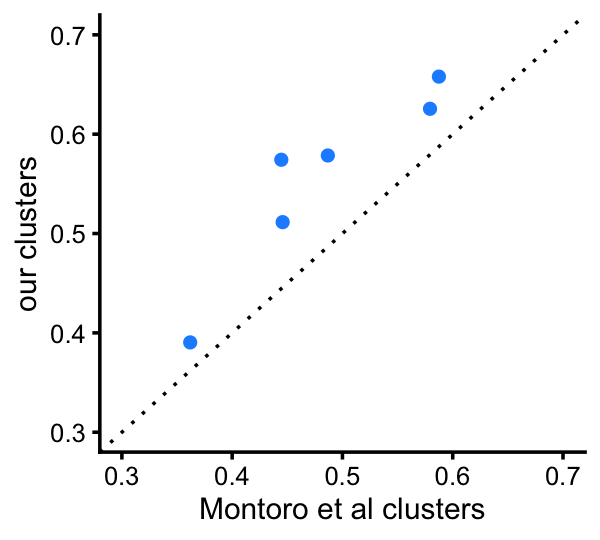
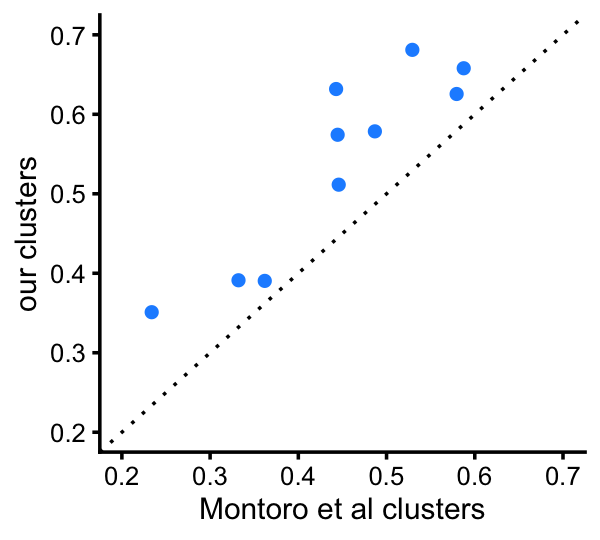
Added T+N cluster to totalvardist plots in clusters_droplet analysis.

diff --git a/docs/clusters_droplet.html b/docs/clusters_droplet.html
@@ -414,16 +414,16 @@ This reproducible <a href="http://rmarkdown.rstudio.com">R Markdown</a> analysis
 <div class="panel panel-default">
 <div class="panel-heading">
 <p class="panel-title">
-<a data-toggle="collapse" data-parent="#workflowr-checks" href="#strongRepositoryversionstrongahrefhttpsgithubcomstephenslabsinglecelltopicstreec69aa03bb5f52ad25e127209eb3dc0643951a179targetblankc69aa03a"> <span class="glyphicon glyphicon-ok text-success" aria-hidden="true"></span> <strong>Repository version:</strong> <a href="https://github.com/stephenslab/single-cell-topics/tree/c69aa03bb5f52ad25e127209eb3dc0643951a179" target="_blank">c69aa03</a> </a>
+<a data-toggle="collapse" data-parent="#workflowr-checks" href="#strongRepositoryversionstrongahrefhttpsgithubcomstephenslabsinglecelltopicstree87d00d08330c16f4a8de4faa5932c2b318d4bdcetargetblank87d00d0a"> <span class="glyphicon glyphicon-ok text-success" aria-hidden="true"></span> <strong>Repository version:</strong> <a href="https://github.com/stephenslab/single-cell-topics/tree/87d00d08330c16f4a8de4faa5932c2b318d4bdce" target="_blank">87d00d0</a> </a>
 </p>
 </div>
[2 lines of base64/hex data omitted]
 <div class="panel-body">
 <p>
 Great! You are using Git for version control. Tracking code development and connecting the code version to the results is critical for reproducibility.
 </p>
 <p>
-The results in this page were generated with repository version <a href="https://github.com/stephenslab/single-cell-topics/tree/c69aa03bb5f52ad25e127209eb3dc0643951a179" target="_blank">c69aa03</a>. See the <em>Past versions</em> tab to see a history of the changes made to the R Markdown and HTML files.
+The results in this page were generated with repository version <a href="https://github.com/stephenslab/single-cell-topics/tree/87d00d08330c16f4a8de4faa5932c2b318d4bdce" target="_blank">87d00d0</a>. See the <em>Past versions</em> tab to see a history of the changes made to the R Markdown and HTML files.
 </p>
 <p>
 Note that you need to be careful to ensure that all relevant files for the analysis have been committed to Git prior to generating the results (you can use <code>wflow_publish</code> or <code>wflow_git_commit</code>). workflowr only checks the R Markdown file, but you know if there are other scripts or data files that it depends on. Below is the status of the Git repository when the results were generated:
@@ -445,12 +445,9 @@ Ignored files:
     Ignored:    output/pulseseq/fits-pulseseq.RData
     Ignored:    output/pulseseq/rds/
 
-Untracked files:
-    Untracked:  analysis/clustering-droplet.rds
-
 Unstaged changes:
+    Modified:   analysis/clusters_pulseseq.Rmd
     Modified:   analysis/plots_tracheal_epithelium.Rmd
-    Modified:   code/plots.R
 
 </code></pre>
 <p>
@@ -489,6 +486,40 @@ Message
 </tr>
 </thead>
 <tbody>
+<tr>
+<td>
+Rmd
+</td>
+<td>
+<a href="https://github.com/stephenslab/single-cell-topics/blob/87d00d08330c16f4a8de4faa5932c2b318d4bdce/analysis/clusters_droplet.Rmd" target="_blank">87d00d0</a>
+</td>
+<td>
+Peter Carbonetto
+</td>
+<td>
+2020-10-11
+</td>
+<td>
+workflowr::wflow_publish(“clusters_droplet.Rmd”)
+</td>
+</tr>
+<tr>
+<td>
+html
+</td>
+<td>
+<a href="https://rawcdn.githack.com/stephenslab/single-cell-topics/b6374a110a3a839698ea093c6ea08c6330d9cda1/docs/clusters_droplet.html" target="_blank">b6374a1</a>
+</td>
+<td>
+Peter Carbonetto
+</td>
+<td>
+2020-10-11
+</td>
+<td>
+Added plots comparing total variation distances in clusters_droplet
+</td>
+</tr>
 <tr>
 <td>
 Rmd
@@ -1587,7 +1618,7 @@ Peter Carbonetto
 <pre class="r"><code>fit_montoro &lt;- init_poisson_nmf_from_clustering(counts,samples$tissue)
 fit_cluster &lt;- init_poisson_nmf_from_clustering(counts,samples$cluster)
 fit_merge   &lt;- merge_topics(poisson2multinom(fit),c(&quot;k5&quot;,&quot;k7&quot;))
-d_montoro   &lt;- totalvardist(poisson2multinom(fit_montoro)$F)
+d_montoro   &lt;- totalvardist(fit_montoro$F)
 d_cluster   &lt;- totalvardist(poisson2multinom(fit_cluster)$F[,-c(3,8)])
 d_topics    &lt;- totalvardist(fit_merge$F[,-3])
 cat(&quot;Montoro et al (2018) clustering:\n&quot;)
@@ -1633,22 +1664,98 @@ p14a &lt;- ggplot(pdat,aes(x = method,y = d,color = I(&quot;white&quot;))) +
   theme_cowplot(font_size = 9)
 print(p14a)</code></pre>
 <p><img src="figure/clusters_droplet.Rmd/clustering-11-1.png" width="300" style="display: block; margin: auto;" /></p>
+<p>
+<button type="button" class="btn btn-default btn-xs btn-workflowr btn-workflowr-fig" data-toggle="collapse" data-target="#fig-clustering-11-1">
+Past versions of clustering-11-1.png
+</button>
+</p>
+<div id="fig-clustering-11-1" class="collapse">
+<div class="table-responsive">
+<table class="table table-condensed table-hover">
+<thead>
+<tr>
+<th>
+Version
+</th>
+<th>
+Author
+</th>
+<th>
+Date
+</th>
+</tr>
+</thead>
+<tbody>
+<tr>
+<td>
+<a href="https://github.com/stephenslab/single-cell-topics/blob/b6374a110a3a839698ea093c6ea08c6330d9cda1/docs/figure/clusters_droplet.Rmd/clustering-11-1.png" target="_blank">b6374a1</a>
+</td>
+<td>
+Peter Carbonetto
+</td>
+<td>
+2020-10-11
+</td>
+</tr>
+</tbody>
+</table>
+</div>
+</div>
 <p>This next plot provides a more direct comparison of the total variation distances among the 4 clusters that are comparable to the Montoro <em>et al</em> clusters:</p>
-<pre class="r"><code>d_montoro &lt;-
-  totalvardist(poisson2multinom(fit_montoro)$F[,c(&quot;Basal&quot;,&quot;Ciliated&quot;,&quot;Club&quot;,
-                                                  &quot;Goblet&quot;)])
-d_cluster&lt;-totalvardist(poisson2multinom(fit_cluster)$F[,c(&quot;B&quot;,&quot;Cil&quot;,&quot;C&quot;,&quot;G&quot;)])
+<pre class="r"><code>fit_montoro &lt;- merge_topics(poisson2multinom(fit_montoro),
+                            c(&quot;Tuft&quot;,&quot;Neuroendocrine&quot;))
+d_montoro &lt;- totalvardist(fit_montoro$F[,c(&quot;Basal&quot;,&quot;Ciliated&quot;,&quot;Club&quot;,&quot;Goblet&quot;,
+                                           &quot;Tuft+Neuroendocrine&quot;)])
+d_cluster &lt;-
+  totalvardist(poisson2multinom(fit_cluster)$F[,c(&quot;B&quot;,&quot;Cil&quot;,&quot;C&quot;,&quot;G&quot;,&quot;T+N&quot;)])
 pdat &lt;- data.frame(montoro  = d_montoro[upper.tri(d_montoro)],
                    clusters = d_cluster[upper.tri(d_cluster)])
 p14b &lt;- ggplot(pdat,aes(x = montoro,y = clusters)) +
   geom_point(shape = 21,size = 2,color = &quot;white&quot;,fill = &quot;dodgerblue&quot;) +
   geom_abline(intercept = 0,slope = 1,color = &quot;black&quot;,linetype = &quot;dotted&quot;) +
-  xlim(0.3,0.7) + 
-  ylim(0.3,0.7) + 
+  xlim(0.2,0.7) + 
+  ylim(0.2,0.7) + 
   labs(x = &quot;Montoro et al clusters&quot;,y = &quot;our clusters&quot;) +
   theme_cowplot(font_size = 9)
 print(p14b)</code></pre>
 <p><img src="figure/clusters_droplet.Rmd/clustering-12-1.png" width="300" style="display: block; margin: auto;" /></p>
+<p>
+<button type="button" class="btn btn-default btn-xs btn-workflowr btn-workflowr-fig" data-toggle="collapse" data-target="#fig-clustering-12-1">
+Past versions of clustering-12-1.png
+</button>
+</p>
+<div id="fig-clustering-12-1" class="collapse">
+<div class="table-responsive">
+<table class="table table-condensed table-hover">
+<thead>
+<tr>
+<th>
+Version
+</th>
+<th>
+Author
+</th>
+<th>
+Date
+</th>
+</tr>
+</thead>
+<tbody>
+<tr>
+<td>
+<a href="https://github.com/stephenslab/single-cell-topics/blob/b6374a110a3a839698ea093c6ea08c6330d9cda1/docs/figure/clusters_droplet.Rmd/clustering-12-1.png" target="_blank">b6374a1</a>
+</td>
+<td>
+Peter Carbonetto
+</td>
+<td>
+2020-10-11
+</td>
+</tr>
+</tbody>
+</table>
+</div>
+</div>
 </div>
 <div id="structure-plot" class="section level2">
 <h2>Structure plot</h2>
